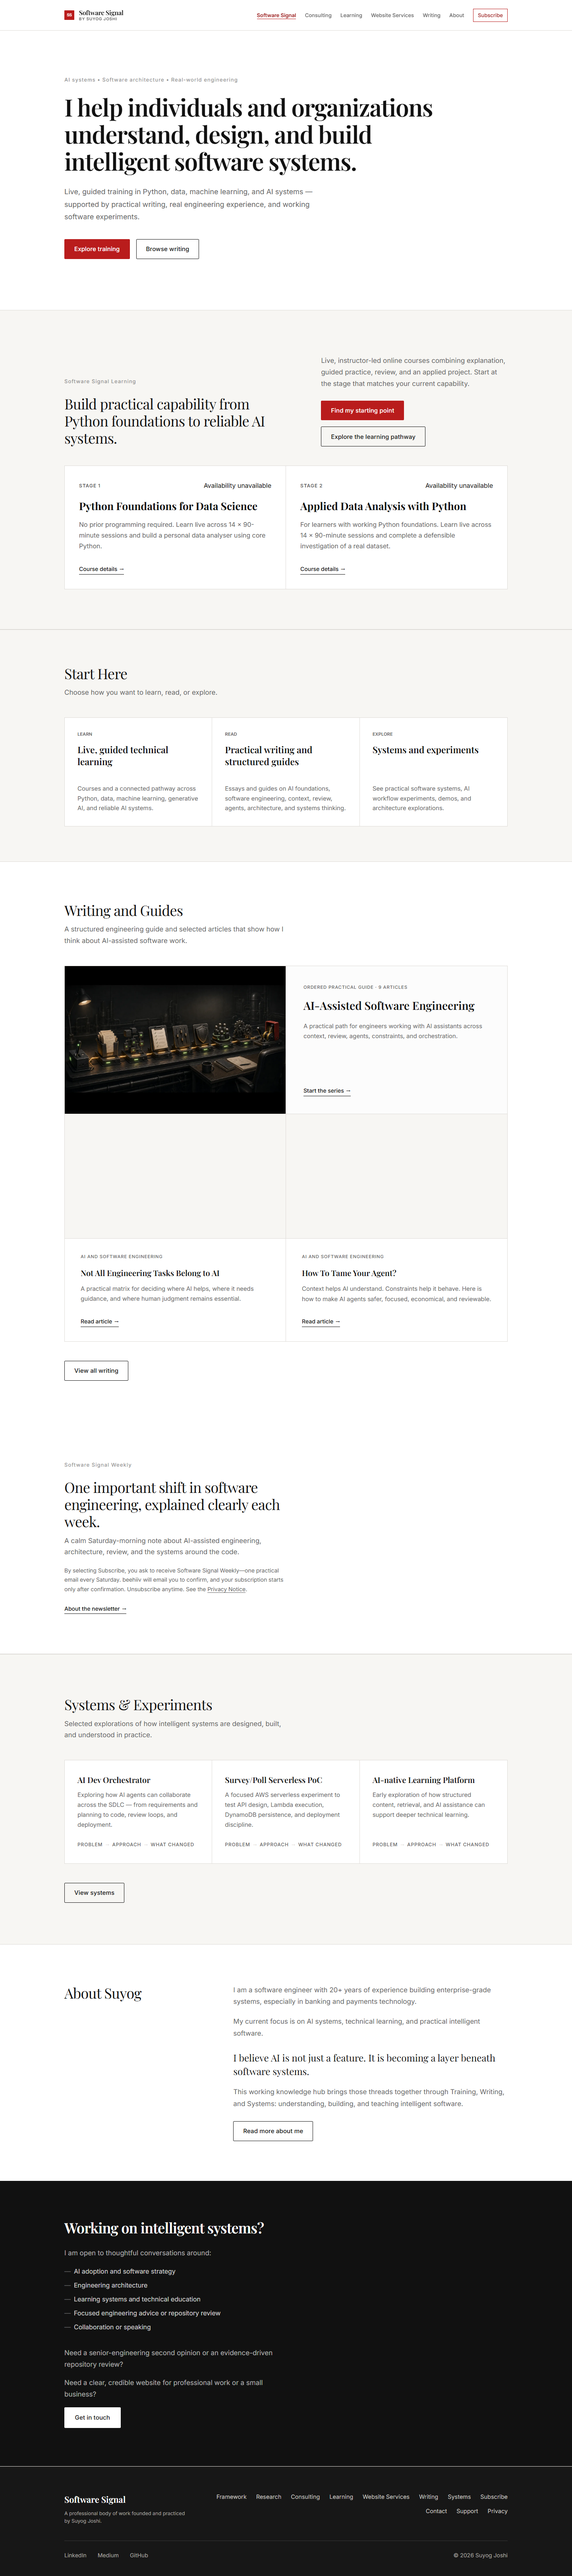
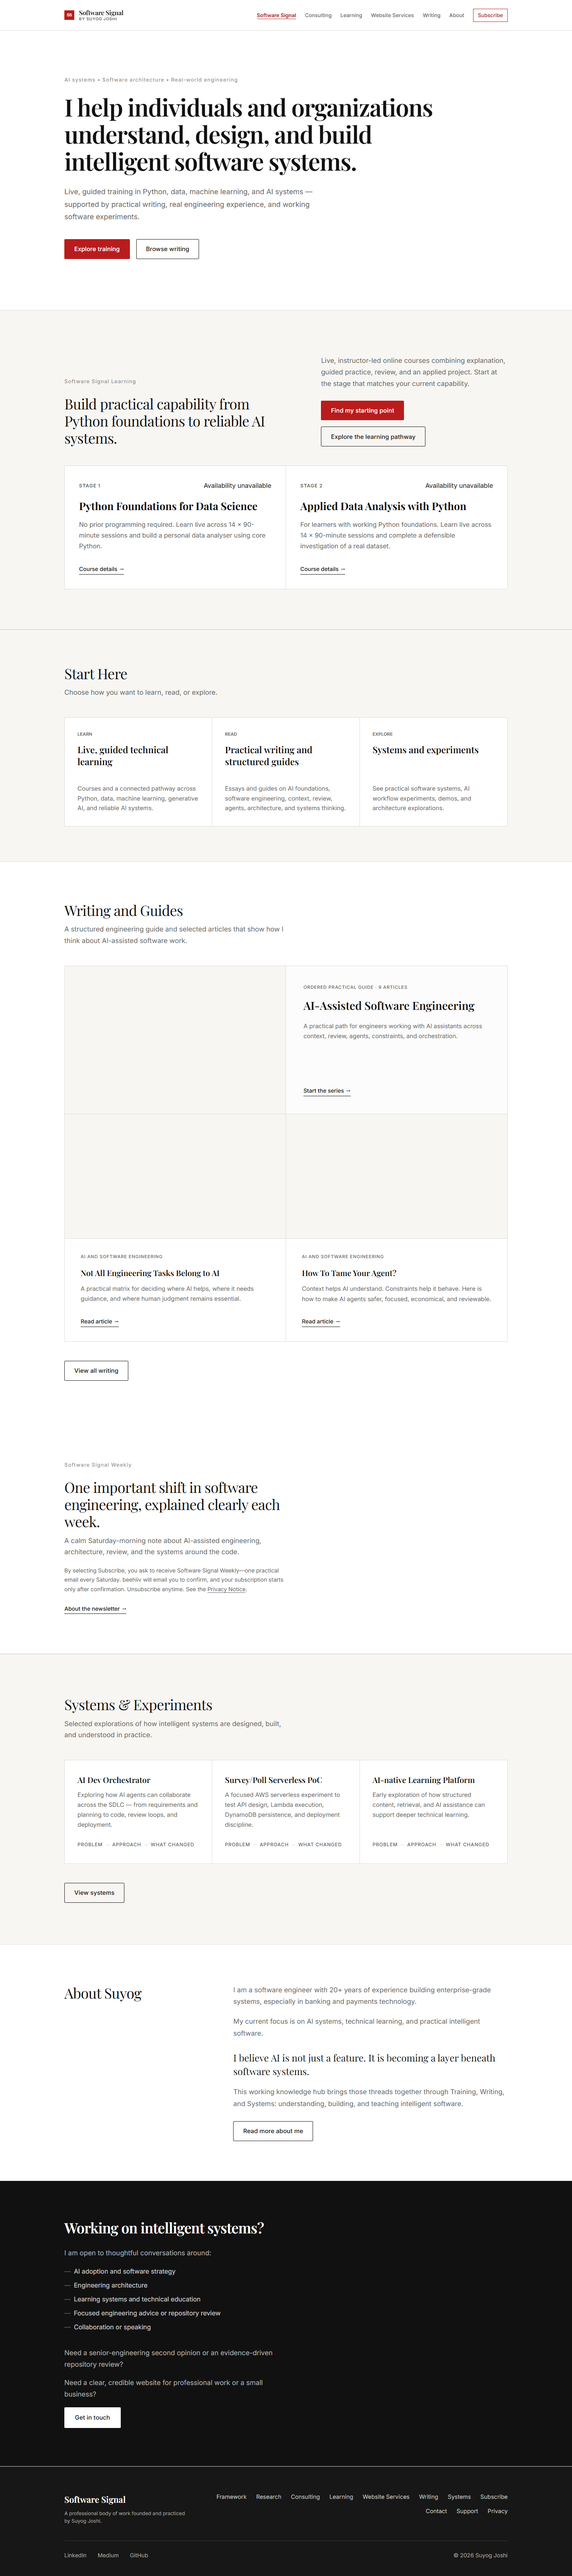
fix: refine #607 navigation semantics

Changed region(s): [[0.0938, 0.3744, 0.5, 0.4368]]

diff --git a/research/ai-teaching-workflows/index.html b/research/ai-teaching-workflows/index.html
@@ -44,7 +44,7 @@
       </a>
       <nav class="nav" id="nav" aria-label="Primary navigation">
         <ul class="nav-list">
-          <li><a href="../../" class="nav-link" aria-current="page">Software Signal</a></li>
+          <li><a href="../../" class="nav-link">Software Signal</a></li>
           <li><a href="../../consulting/" class="nav-link">Consulting</a></li>
           <li><a href="../../training/" class="nav-link">Learning</a></li>
           <li><a href="../../website-services/" class="nav-link">Website Services</a></li>

diff --git a/framework/index.html b/framework/index.html
@@ -33,7 +33,7 @@
       </a>
       <nav class="nav" id="nav" aria-label="Primary navigation">
         <ul class="nav-list">
-          <li><a href="../" class="nav-link" aria-current="page">Software Signal</a></li>
+          <li><a href="../" class="nav-link">Software Signal</a></li>
           <li><a href="../consulting/" class="nav-link">Consulting</a></li>
           <li><a href="../training/" class="nav-link">Learning</a></li>
           <li><a href="../website-services/" class="nav-link">Website Services</a></li>

diff --git a/research/index.html b/research/index.html
@@ -33,7 +33,7 @@
       </a>
       <nav class="nav" id="nav" aria-label="Primary navigation">
         <ul class="nav-list">
-          <li><a href="../" class="nav-link" aria-current="page">Software Signal</a></li>
+          <li><a href="../" class="nav-link">Software Signal</a></li>
           <li><a href="../consulting/" class="nav-link">Consulting</a></li>
           <li><a href="../training/" class="nav-link">Learning</a></li>
           <li><a href="../website-services/" class="nav-link">Website Services</a></li>

diff --git a/scripts/update_shared_shell.py b/scripts/update_shared_shell.py
@@ -22,8 +22,8 @@ def current_section(page: Path) -> str:
         return "software-signal"
     section = relative.parts[0]
     return {
-        "framework": "software-signal",
-        "research": "software-signal",
+        "framework": "",
+        "research": "",
         "training": "learning",
         "consulting": "consulting",
         "website-services": "website-services",

diff --git a/docs/evidence/issue-607-rendered-review.md b/docs/evidence/issue-607-rendered-review.md
@@ -112,4 +112,3 @@ quietly restructuring existing page content in this issue.
   8.31:1, muted text/white 6.10:1, footer muted text/dark surface 7.48:1.
 - DOM order matches the visual desktop/mobile order; no horizontal overflow was
   observed in the evidence matrix.
-

diff --git a/docs/plans/issue-607-shared-foundation.md b/docs/plans/issue-607-shared-foundation.md
@@ -87,4 +87,3 @@ representative review.
 No Product Owner decision remains for #607. Exact homepage hierarchy, substantive
 Framework/Research content, and broad page-family composition remain with #608
 and #609.
-
